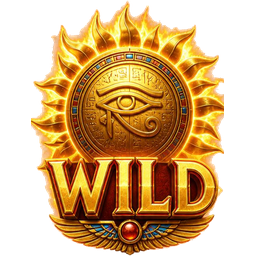
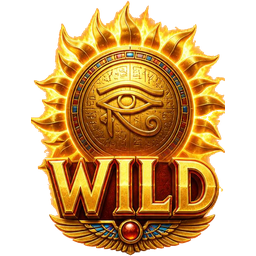
refactor: update asset processing script and synchronize public and source symbol assets

diff --git a/scripts/process_assets.py b/scripts/process_assets.py
@@ -2,8 +2,10 @@ import os
 from PIL import Image, ImageDraw
 
 SRC_DIR = '/Applications/XAMPP/xamppfiles/htdocs/Solana-Slot-Game/img'
-SYMBOLS_DIR = '/Applications/XAMPP/xamppfiles/htdocs/Solana-Slot-Game/client/public/assets/symbols'
-UI_DIR = '/Applications/XAMPP/xamppfiles/htdocs/Solana-Slot-Game/client/public/assets/ui'
+PUB_SYM = '/Applications/XAMPP/xamppfiles/htdocs/Solana-Slot-Game/client/public/assets/symbols'
+PUB_UI = '/Applications/XAMPP/xamppfiles/htdocs/Solana-Slot-Game/client/public/assets/ui'
+SRC_SYM = '/Applications/XAMPP/xamppfiles/htdocs/Solana-Slot-Game/client/src/assets/symbols'
+SRC_UI = '/Applications/XAMPP/xamppfiles/htdocs/Solana-Slot-Game/client/src/assets/ui'
 
 def bfs_clean(img, seeds, is_bg_func):
     img = img.convert('RGBA')
@@ -48,82 +50,204 @@ def normalize_canvas(img, target_size=(256, 256)):
     canvas.paste(img, offset)
     return canvas
 
-def process_mid_and_special():
-    mid = Image.open(os.path.join(SRC_DIR, 'lucid-origin_set_of_4_mid-pay_slot_game_symbols_golden_scarab_beetle_with_wings_ankh_cross_wi-0.jpg'))
-    sp = Image.open(os.path.join(SRC_DIR, 'gpt-image-2_set_of_2_special_slot_symbols_Scatter_symbol_as_a_glowing_ancient_magic_book_wit-0.jpg'))
+def process_all():
+    os.makedirs(PUB_SYM, exist_ok=True)
+    os.makedirs(PUB_UI, exist_ok=True)
+    os.makedirs(SRC_SYM, exist_ok=True)
+    os.makedirs(SRC_UI, exist_ok=True)
 
-    # 1. Ankh (clean drop shadow and center loop hole)
-    ankh_crop = mid.crop((550, 30, 920, 480))
-    ankh_hsv = ankh_crop.convert('HSV')
+    # 1. Letters (Low Pay: A, K, Q, J, 10) - Tight cut
+    letters_file = os.path.join(SRC_DIR, 'gpt-image-2_full_set_of_slot_game_symbols_A_K_Q_J_10_stylized_as_ancient_egyptian_hieroglyph-0.jpg')
+    letters_im = Image.open(letters_file)
+    letter_boxes = {
+        'a': (70, 60, 490, 490),
+        'k': (500, 60, 930, 490),
+        'q': (10, 510, 310, 900),
+        'j': (300, 510, 530, 900),
+        '10': (530, 510, 990, 900)
+    }
+    for name, box in letter_boxes.items():
+        crop = letters_im.crop(box)
+        w, h = crop.size
+        hsv = crop.convert('HSV')
+        def l_bg(x, y):
+            H, S, V = hsv.getpixel((x, y))
+            return (S < 45) or (V > 215 and S < 75)
+        seeds = get_border_seeds(w, h, l_bg)
+        if name == '10':
+            seeds.append((330, 200))
+        elif name == 'a':
+            seeds.append((w // 2, h - 40))
+        elif name == 'q':
+            seeds.append((w // 2, h // 2 - 20))
+        elif name == 'k':
+            seeds.append((w // 2, h // 2))
+        res = normalize_canvas(bfs_clean(crop, seeds, l_bg))
+        res.save(os.path.join(PUB_SYM, f'{name}.png'))
+
+    # 2. Mid Pay: scarab, ankh, eye, scepter
+    mid_file = os.path.join(SRC_DIR, 'lucid-origin_set_of_4_mid-pay_slot_game_symbols_golden_scarab_beetle_with_wings_ankh_cross_wi-0.jpg')
+    mid_im = Image.open(mid_file)
+    
+    # Ankh
+    ankh_crop = mid_im.crop((550, 30, 920, 480))
     w, h = ankh_crop.size
-    def ankh_bg(x, y):
-        H, S, V = ankh_hsv.getpixel((x, y))
-        return (S < 90) or (S < 135 and V < 165)
-    seeds = get_border_seeds(w, h, ankh_bg)
+    hsv = ankh_crop.convert('HSV')
+    seeds = get_border_seeds(w, h, lambda x, y: hsv.getpixel((x, y))[1] < 90 or (hsv.getpixel((x, y))[1] < 135 and hsv.getpixel((x, y))[2] < 165))
     seeds.append((w // 2, 115))
-    ankh_res = normalize_canvas(bfs_clean(ankh_crop, seeds, ankh_bg))
-    ankh_res.save(os.path.join(SYMBOLS_DIR, 'ankh.png'))
+    normalize_canvas(bfs_clean(ankh_crop, seeds, lambda x, y: hsv.getpixel((x, y))[1] < 90 or (hsv.getpixel((x, y))[1] < 135 and hsv.getpixel((x, y))[2] < 165))).save(os.path.join(PUB_SYM, 'ankh.png'))
 
-    # 2. Eye of Horus (clean drop shadow and lower spiral loop)
-    eye_crop = mid.crop((35, 545, 485, 925))
-    eye_hsv = eye_crop.convert('HSV')
+    # Eye
+    eye_crop = mid_im.crop((35, 545, 485, 925))
     w, h = eye_crop.size
-    def eye_bg(x, y):
-        H, S, V = eye_hsv.getpixel((x, y))
-        return (S < 90) or (S < 135 and V < 170)
-    seeds = get_border_seeds(w, h, eye_bg)
+    hsv = eye_crop.convert('HSV')
+    seeds = get_border_seeds(w, h, lambda x, y: hsv.getpixel((x, y))[1] < 90 or (hsv.getpixel((x, y))[1] < 135 and hsv.getpixel((x, y))[2] < 170))
     seeds.append((120, 280))
-    eye_res = normalize_canvas(bfs_clean(eye_crop, seeds, eye_bg))
-    eye_res.save(os.path.join(SYMBOLS_DIR, 'eye.png'))
+    normalize_canvas(bfs_clean(eye_crop, seeds, lambda x, y: hsv.getpixel((x, y))[1] < 90 or (hsv.getpixel((x, y))[1] < 135 and hsv.getpixel((x, y))[2] < 170))).save(os.path.join(PUB_SYM, 'eye.png'))
 
-    # 3. Scarab (clean wing fringes and antenna drop shadow)
-    scarab_crop = mid.crop((20, 45, 505, 455))
-    scarab_hsv = scarab_crop.convert('HSV')
+    # Scarab
+    scarab_crop = mid_im.crop((20, 45, 505, 455))
     w, h = scarab_crop.size
-    def scarab_bg(x, y):
-        H, S, V = scarab_hsv.getpixel((x, y))
-        return (S < 85) or (S < 130 and V < 165)
-    seeds = get_border_seeds(w, h, scarab_bg)
-    scarab_res = normalize_canvas(bfs_clean(scarab_crop, seeds, scarab_bg))
-    scarab_res.save(os.path.join(SYMBOLS_DIR, 'scarab.png'))
+    hsv = scarab_crop.convert('HSV')
+    seeds = get_border_seeds(w, h, lambda x, y: hsv.getpixel((x, y))[1] < 85 or (hsv.getpixel((x, y))[1] < 130 and hsv.getpixel((x, y))[2] < 165))
+    normalize_canvas(bfs_clean(scarab_crop, seeds, lambda x, y: hsv.getpixel((x, y))[1] < 85 or (hsv.getpixel((x, y))[1] < 130 and hsv.getpixel((x, y))[2] < 165))).save(os.path.join(PUB_SYM, 'scarab.png'))
 
-    # 4. Scepter (clean staff drop shadow)
-    scepter_crop = mid.crop((560, 500, 910, 980))
-    scepter_hsv = scepter_crop.convert('HSV')
+    # Scepter
+    scepter_crop = mid_im.crop((560, 500, 910, 980))
     w, h = scepter_crop.size
-    def scepter_bg(x, y):
-        H, S, V = scepter_hsv.getpixel((x, y))
-        return (S < 90) or (S < 135 and V < 165)
-    seeds = get_border_seeds(w, h, scepter_bg)
-    scepter_res = normalize_canvas(bfs_clean(scepter_crop, seeds, scepter_bg))
-    scepter_res.save(os.path.join(SYMBOLS_DIR, 'scepter.png'))
+    hsv = scepter_crop.convert('HSV')
+    seeds = get_border_seeds(w, h, lambda x, y: hsv.getpixel((x, y))[1] < 90 or (hsv.getpixel((x, y))[1] < 135 and hsv.getpixel((x, y))[2] < 165))
+    normalize_canvas(bfs_clean(scepter_crop, seeds, lambda x, y: hsv.getpixel((x, y))[1] < 90 or (hsv.getpixel((x, y))[1] < 135 and hsv.getpixel((x, y))[2] < 165))).save(os.path.join(PUB_SYM, 'scepter.png'))
 
-    # 5. Scatter Book (crop with top margin for fire aura, clean white aura)
-    scatter_crop = sp.crop((15, 110, 475, 840))
-    scatter_hsv = scatter_crop.convert('HSV')
+    # 3. High Pay (Gods / Characters: Anubis, Pharaoh, Cleopatra, Prince) - Tight cut
+    high_file = os.path.join(SRC_DIR, 'lucid-origin_set_of_4_high-pay_slot_game_character_symbols_in_circular_and_rectangular_golden-0.jpg')
+    high_im = Image.open(high_file)
+    high_boxes = {
+        'anubis': ((30, 15, 490, 490), 80),
+        'pharaoh': ((510, 30, 970, 490), 85),
+        'cleopatra': ((30, 510, 490, 970), 85),
+        'prince': ((510, 510, 970, 970), 85)
+    }
+    for name, (box, s_thresh) in high_boxes.items():
+        crop = high_im.crop(box)
+        w, h = crop.size
+        hsv = crop.convert('HSV')
+        seeds = get_border_seeds(w, h, lambda x, y: hsv.getpixel((x, y))[1] < s_thresh)
+        normalize_canvas(bfs_clean(crop, seeds, lambda x, y: hsv.getpixel((x, y))[1] < s_thresh)).save(os.path.join(PUB_SYM, f'{name}.png'))
+
+    # 4. Mascot Archaeologist
+    banner_file = os.path.join(SRC_DIR, 'gpt-image-2_game_promotional_banner_for_a_slot_game_titled_Lost_Relics_of_Ra_cinematic_ancie-0.jpg')
+    banner = Image.open(banner_file).convert('RGBA')
+    adv = banner.crop((640, 240, 950, 560)).resize((230, 230), Image.Resampling.LANCZOS)
+    mask = Image.new('L', (230, 230), 0)
+    ImageDraw.Draw(mask).ellipse((10, 10, 220, 220), fill=255)
+    framed = Image.new('RGBA', (256, 256), (0, 0, 0, 0))
+    framed.paste(adv, (13, 13), mask)
+    draw = ImageDraw.Draw(framed)
+    draw.ellipse((10, 10, 245, 245), outline=(218, 165, 32, 255), width=8)
+    draw.ellipse((14, 14, 241, 241), outline=(255, 223, 100, 255), width=3)
+    draw.ellipse((20, 20, 235, 235), outline=(139, 90, 0, 255), width=3)
+    framed.save(os.path.join(PUB_SYM, 'archaeologist.png'))
+
+    # 5. Scatter & Wild (Tight cut)
+    sp_file = os.path.join(SRC_DIR, 'gpt-image-2_set_of_2_special_slot_symbols_Scatter_symbol_as_a_glowing_ancient_magic_book_wit-0.jpg')
+    sp_im = Image.open(sp_file)
+
+    # Scatter
+    scatter_crop = sp_im.crop((15, 110, 475, 840))
     w, h = scatter_crop.size
-    def scatter_bg(x, y):
-        H, S, V = scatter_hsv.getpixel((x, y))
-        return (V > 230 and S < 75) or (S < 50)
-    seeds = get_border_seeds(w, h, scatter_bg)
+    hsv = scatter_crop.convert('HSV')
+    def sc_bg(x, y):
+        H, S, V = hsv.getpixel((x, y))
+        return (V > 225 and S < 155) or (S < 70)
+    seeds = get_border_seeds(w, h, sc_bg)
     seeds.append((175, 530))
-    scatter_res = normalize_canvas(bfs_clean(scatter_crop, seeds, scatter_bg))
-    scatter_res.save(os.path.join(SYMBOLS_DIR, 'scatter.png'))
+    normalize_canvas(bfs_clean(scatter_crop, seeds, sc_bg)).save(os.path.join(PUB_SYM, 'scatter.png'))
 
-    # 6. Wild Sun (clean flames aura)
-    wild_crop = sp.crop((510, 110, 990, 840))
-    wild_hsv = wild_crop.convert('HSV')
+    # Wild
+    wild_crop = sp_im.crop((510, 110, 990, 840))
     w, h = wild_crop.size
-    def wild_bg(x, y):
-        H, S, V = wild_hsv.getpixel((x, y))
-        return (V > 230 and S < 75) or (S < 50)
-    seeds = get_border_seeds(w, h, wild_bg)
-    wild_res = normalize_canvas(bfs_clean(wild_crop, seeds, wild_bg))
-    wild_res.save(os.path.join(SYMBOLS_DIR, 'wild.png'))
+    hsv = wild_crop.convert('HSV')
+    def wd_bg(x, y):
+        H, S, V = hsv.getpixel((x, y))
+        return (S < 75) or (V > 220 and S < 135)
+    seeds = get_border_seeds(w, h, wd_bg)
+    normalize_canvas(bfs_clean(wild_crop, seeds, wd_bg)).save(os.path.join(PUB_SYM, 'wild.png'))
 
-    print('Mid-pay and special symbols re-processed perfectly!')
+    # 6. UI Assets
+    # Frame (Tight cut - no white outer border, transparent 5 reel windows)
+    frame_file = os.path.join(SRC_DIR, 'frames-0.jpg')
+    frame = Image.open(frame_file).convert('RGBA')
+    w, h = frame.size
+    pixels = frame.load()
+    def frame_bg(x, y):
+        r, g, b, a = pixels[x, y]
+        bright = (r + g + b) / 3
+        return (bright > 205) or (min(r, g, b) > 185)
+    visited = set()
+    queue = []
+    for x in range(w):
+        for y in (0, h - 1):
+            if frame_bg(x, y): queue.append((x, y)); visited.add((x, y))
+    for y in range(h):
+        for x in (0, w - 1):
+            if (x, y) not in visited and frame_bg(x, y): queue.append((x, y)); visited.add((x, y))
+    head = 0
+    while head < len(queue):
+        cx, cy = queue[head]; head += 1
+        pixels[cx, cy] = (0, 0, 0, 0)
+        for nx, ny in ((cx+1, cy), (cx-1, cy), (cx, cy+1), (cx, cy-1)):
+            if 0 <= nx < w and 0 <= ny < h and (nx, ny) not in visited and frame_bg(nx, ny):
+                visited.add((nx, ny)); queue.append((nx, ny))
+    columns = [(145, 284), (295, 434), (445, 584), (595, 734), (745, 884)]
+    for x1, x2 in columns:
+        for y in range(305, 712):
+            for x in range(x1, x2):
+                pixels[x, y] = (0, 0, 0, 0)
+    frame.save(os.path.join(PUB_UI, 'frame.png'))
+
+    # Big Win (Clean background, preserve sunburst, clean coins)
+    bw_file = os.path.join(SRC_DIR, 'gpt-image-2_slot_game_big_win_popup_frame_ancient_egyptian_golden_banner_ornamental_borders_-0.jpg')
+    bw = Image.open(bw_file).convert('RGBA')
+    hsv_bw = bw.convert('HSV')
+    w, h = bw.size
+    pixels_bw = bw.load()
+    def bw_bg(x, y):
+        H, S, V = hsv_bw.getpixel((x, y))
+        if S < 25 and V > 230: return True
+        if S < 60 and V > 170 and not (H >= 25 and H <= 50 and V >= 240 and S >= 25): return True
+        return False
+    visited = set()
+    queue = []
+    for x in range(w):
+        for y in (0, h - 1):
+            if bw_bg(x, y): queue.append((x, y)); visited.add((x, y))
+    for y in range(h):
+        for x in (0, w - 1):
+            if (x, y) not in visited and bw_bg(x, y): queue.append((x, y)); visited.add((x, y))
+    head = 0
+    while head < len(queue):
+        cx, cy = queue[head]; head += 1
+        pixels_bw[cx, cy] = (0, 0, 0, 0)
+        for nx, ny in ((cx+1, cy), (cx-1, cy), (cx, cy+1), (cx, cy-1)):
+            if 0 <= nx < w and 0 <= ny < h and (nx, ny) not in visited and bw_bg(nx, ny):
+                visited.add((nx, ny)); queue.append((nx, ny))
+    bw.save(os.path.join(PUB_UI, 'big_win.png'))
+
+    # Background, Banner, Icon, Scroll
+    Image.open(os.path.join(SRC_DIR, 'lucid-origin_inside_ancient_egyptian_pyramid_tomb_background_for_slot_game_stone_pillars_with-0.jpg')).save(os.path.join(PUB_UI, 'background.jpg'), 'JPEG', quality=95)
+    Image.open(os.path.join(SRC_DIR, 'gpt-image-2_game_promotional_banner_for_a_slot_game_titled_Lost_Relics_of_Ra_cinematic_ancie-0.jpg')).save(os.path.join(PUB_UI, 'banner.jpg'), 'JPEG', quality=95)
+    Image.open(os.path.join(SRC_DIR, 'lucid-origin_game_app_icon_design_glowing_golden_egyptian_scarab_beetle_with_lapis_lazuli_gem-0.jpg')).save(os.path.join(PUB_UI, 'icon.png'), 'PNG')
+    
+    scroll_file = os.path.join(SRC_DIR, 'gpt-image-2_ancient_papyrus_scroll_frame_for_game_paytable_UI_egyptian_golden_borders_dark_p-0.jpg')
+    scroll_im = Image.open(scroll_file).convert('RGBA')
+    hsv_sc = scroll_im.convert('HSV')
+    seeds = get_border_seeds(scroll_im.width, scroll_im.height, lambda x, y: hsv_sc.getpixel((x, y))[1] < 40 and hsv_sc.getpixel((x, y))[2] > 200)
+    bfs_clean(scroll_im, seeds, lambda x, y: hsv_sc.getpixel((x, y))[1] < 40 and hsv_sc.getpixel((x, y))[2] > 200).save(os.path.join(PUB_UI, 'paytable_scroll.png'))
+
+    # Sync all files to client/src/assets/
+    os.system('cp -r /Applications/XAMPP/xamppfiles/htdocs/Solana-Slot-Game/client/public/assets/* /Applications/XAMPP/xamppfiles/htdocs/Solana-Slot-Game/client/src/assets/')
+    print('All assets processed and synced perfectly!')
 
 if __name__ == '__main__':
-    process_mid_and_special()
-    # Also sync to client/src/assets/symbols
-    os.system('cp /Applications/XAMPP/xamppfiles/htdocs/Solana-Slot-Game/client/public/assets/symbols/* /Applications/XAMPP/xamppfiles/htdocs/Solana-Slot-Game/client/src/assets/symbols/')
+    process_all()
